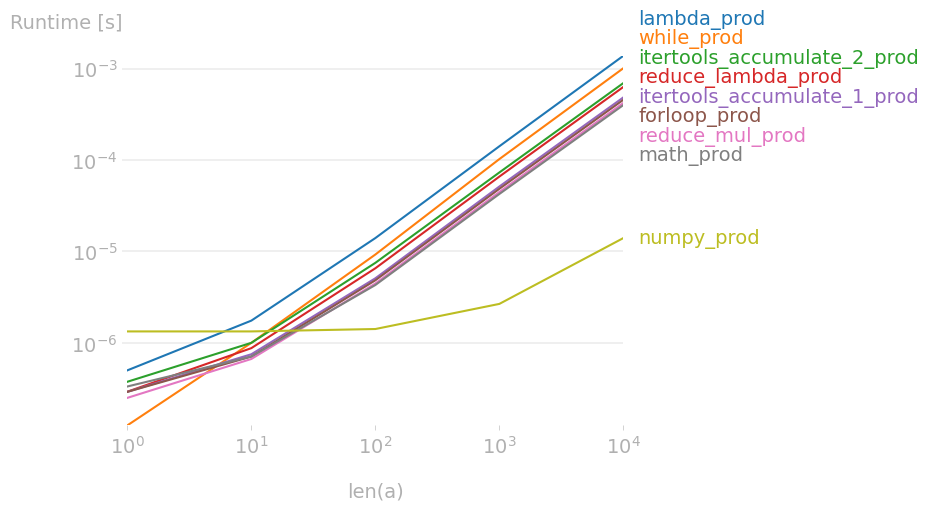
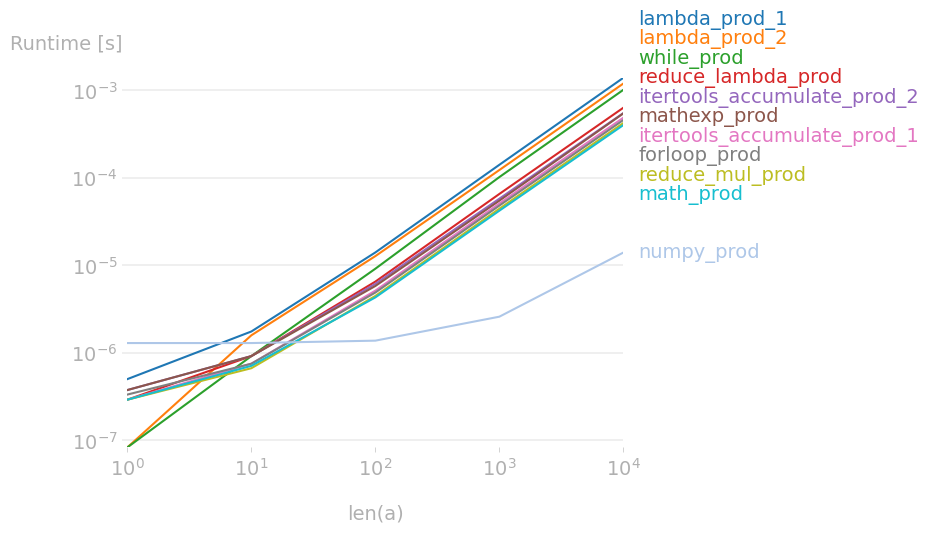
update

diff --git a/product_test.py b/product_test.py
@@ -10,8 +10,13 @@ from functools import reduce
 from itertools import accumulate
 from operator import mul
 
-import numpy
+import numpy as np
 import perfplot
+
+
+def mathexp_prod(lst):
+    ans = math.exp(sum(map(math.log, lst)))
+    return ans
 
 
 def reduce_lambda_prod(lst):
@@ -25,14 +30,14 @@ def reduce_mul_prod(lst):
 
 
 def forloop_prod(lst):
-    ans = 1
-    for elem in lst:
+    ans = lst[0]
+    for elem in lst[1:]:
         ans *= elem
     return ans
 
 
 def numpy_prod(lst):
-    ans = numpy.prod(lst)
+    ans = np.prod(lst)
     return ans
 
 
@@ -41,46 +46,58 @@ def math_prod(lst):
     return ans
 
 
-def itertools_accumulate_1_prod(lst):
+def itertools_accumulate_prod_1(lst):
     for ans in accumulate(lst, mul):
         pass
     return ans
 
 
-def itertools_accumulate_2_prod(lst):
-    ans = list(accumulate(lst, lambda x, y: x * y))[-1]
+def itertools_accumulate_prod_2(lst):
+    ans = [_ for _ in accumulate(lst, mul)][-1]
     return ans
 
 
 def while_prod(lst):
-    ans = 1
-    i = 0
+    ans = lst[0]
+    i = 1
     while i < len(lst):
         ans *= lst[i]
         i += 1
     return ans
 
 
-def lambda_prod(lst):
+def lambda_prod_1(lst):
     ans = [j := (lambda c, i: i * j if c else i)(c, i) for c, i in enumerate(lst)][-1]
     return ans
 
 
-b = perfplot.bench(
-    setup=numpy.random.rand,
-    kernels=[
-        lambda_prod,
-        while_prod,
-        itertools_accumulate_2_prod,
-        reduce_lambda_prod,
-        itertools_accumulate_1_prod,
-        forloop_prod,
-        reduce_mul_prod,
-        math_prod,
-        numpy_prod,
-    ],
-    n_range=[10**k for k in range(0, 5)],
-    xlabel="len(a)",
-)
-b.save("out.png")
-# b.show()
+def lambda_prod_2(lst):
+    if len(lst) == 1:
+        ans = lst[0]
+    else:
+        j = lst[0]
+        ans = [j := (lambda i: i * j)(i) for i in lst[1:]][-1]
+    return ans
+
+
+if __name__ == "__main__":
+    b = perfplot.bench(
+        setup=np.random.rand,
+        kernels=[
+            lambda_prod_1,
+            lambda_prod_2,
+            while_prod,
+            reduce_lambda_prod,
+            itertools_accumulate_prod_2,
+            mathexp_prod,
+            itertools_accumulate_prod_1,
+            forloop_prod,
+            reduce_mul_prod,
+            math_prod,
+            numpy_prod,
+        ],
+        n_range=[10**k for k in range(0, 5)],
+        xlabel="len(a)",
+    )
+    b.save("out.png")
+    # b.show()
